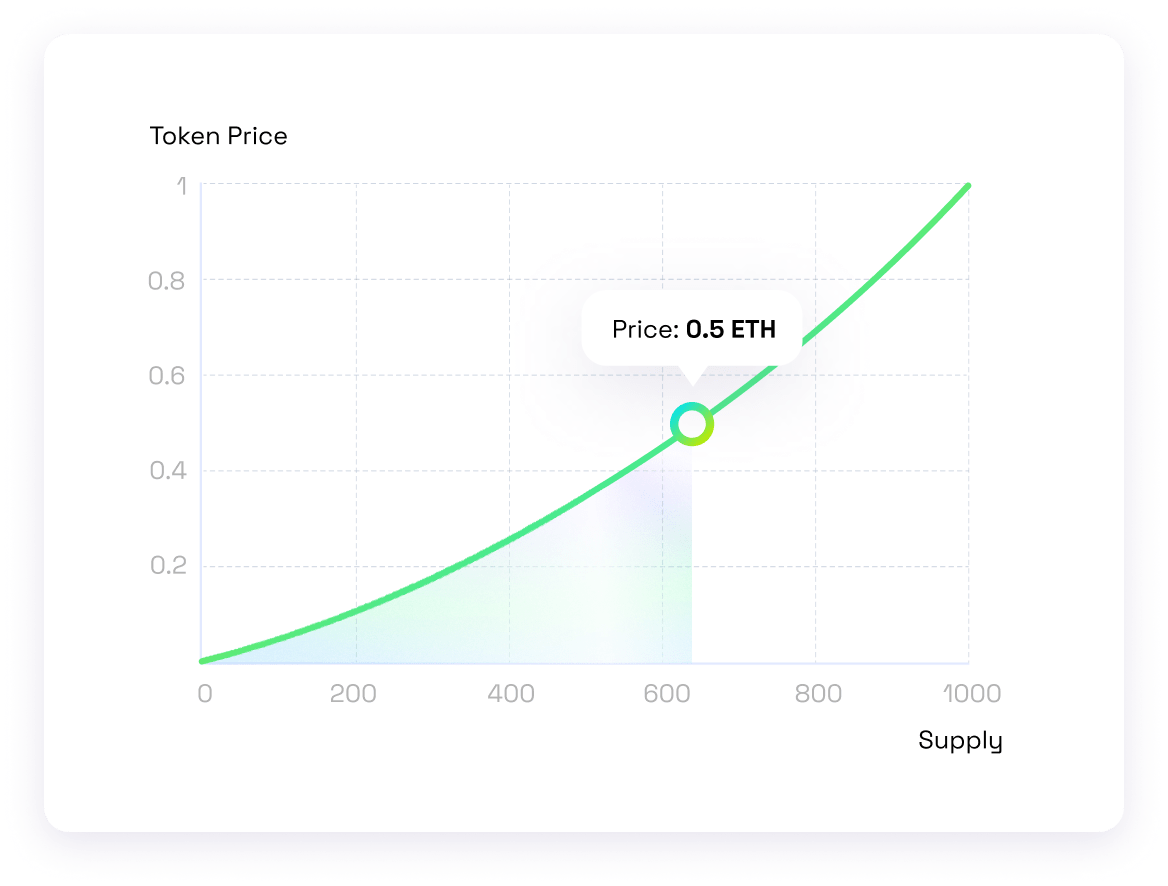
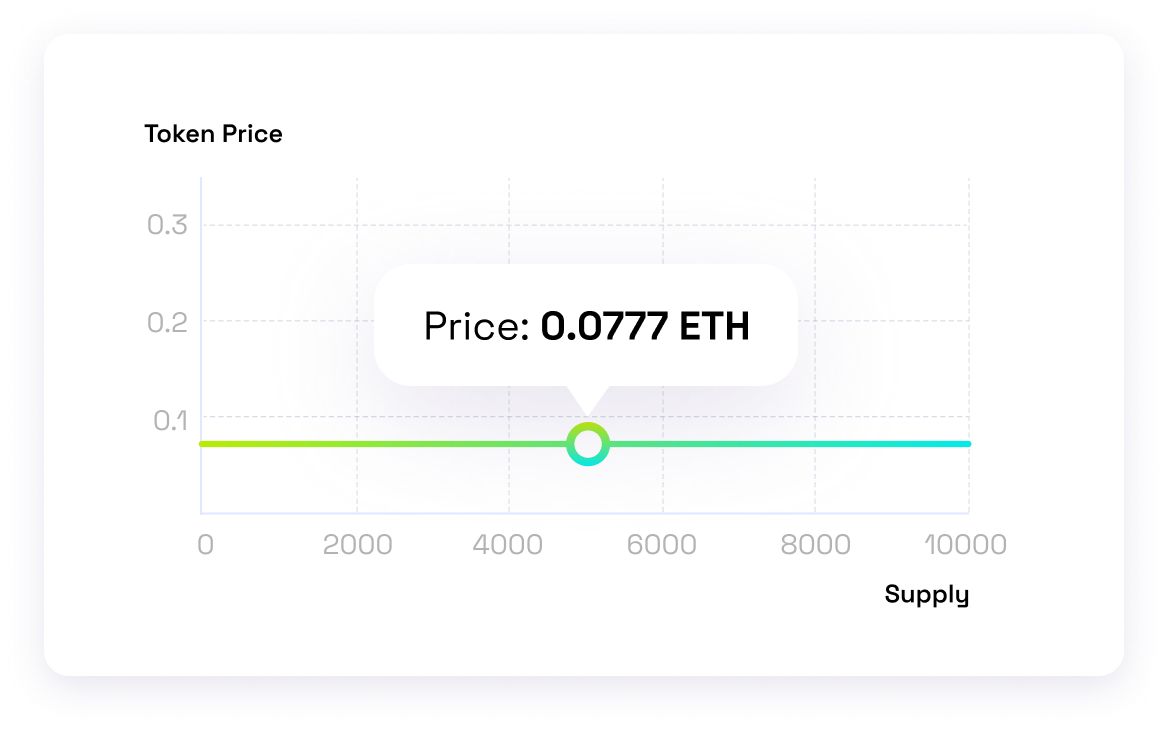
update polymorphs landing pages about section2

diff --git a/src/components/polymorphs/styles/About.scss b/src/components/polymorphs/styles/About.scss
@@ -101,6 +101,8 @@
         flex-wrap: wrap;
         align-items: center;  
         padding: 0 40px;
+        position: relative;
+        z-index: 80;
         @include sm {
             padding: 0;
         }
@@ -159,24 +161,30 @@
                 @include lg {
                     width: 325px;
                 }
+                @include sm {
+                    width: 100%;
+                }
             }
             .row2--background {
                 position: absolute;
-                left: 45px;
+                left: 120px;
                 max-height: 150%;
                 bottom: -70px;
                 @include xl {
                     bottom: -55px;
+                    left: 100px;
                 }
                 @include lg {
                     bottom: -40px;
+                    left: 9vw;
                 }
                 @include sm {
                     bottom: 20px;
                     top: 0;
                     margin: auto;
-                    max-height: 400px;
-                    height: 380px;
+                    max-height: 600px;
+                    height: 90vw;
+                    left: 15vw;
                 }
             }
         }

diff --git a/src/components/polymorphs/About.jsx b/src/components/polymorphs/About.jsx
@@ -20,11 +20,8 @@ const row1RightBlock = () => (
 
 const row2LeftBlock = () => (
   <AnimatedOnScroll animationIn="fadeIn" animationInDelay={200}>
-    <h2>Released via Bonding Curve</h2>
-    <p>
-      The Polymorphs will be released via a bonding curve. A bonding curve is a distribution method
-      that increases the price of mints as the amount of minted Polymorphs increases.
-    </p>
+    <h2>Released via Distribution Curve</h2>
+    <p>The Polymorphs will be originally released via a flat curve.</p>
   </AnimatedOnScroll>
 );
 
